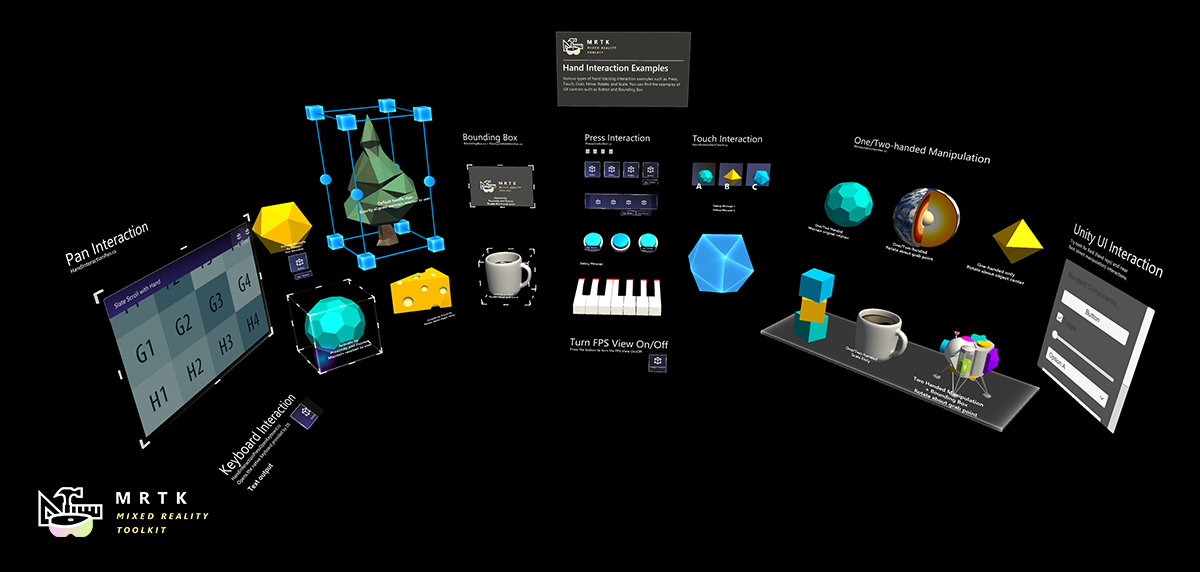
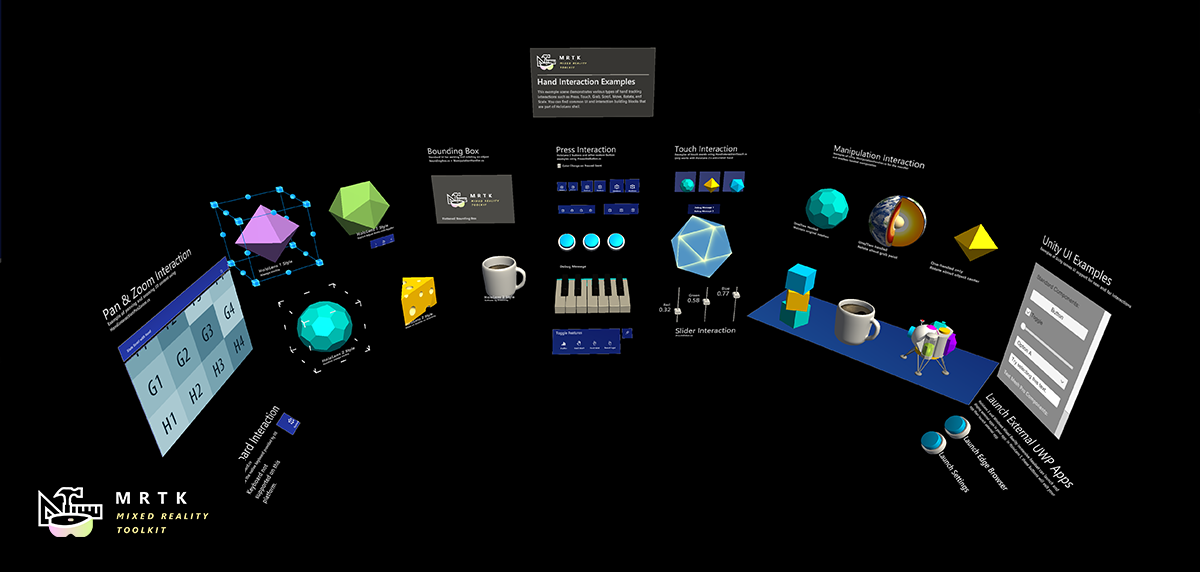
Landing page updates.

diff --git a/README.md b/README.md
@@ -15,8 +15,8 @@ MRTK-Unity is a Microsoft driven project that provides a set of components and f
 
 # Getting Started with MRTK
 
-| [![Getting Started and Documentation](Documentation/Images/MRTK_Icon_GettingStarted.png)](https://microsoft.github.io/MixedRealityToolkit-Unity/Documentation/GettingStartedWithTheMRTK.html)<br/>[Getting Started Guide and Documentation](https://microsoft.github.io/MixedRealityToolkit-Unity/Documentation/GettingStartedWithTheMRTK.html)| [![Getting Started and Documentation](Documentation/Images/MRTK_Icon_Documentation.png)](https://microsoft.github.io/MixedRealityToolkit-Unity/api/Microsoft.MixedReality.Toolkit.html)<br/>[API Reference](https://microsoft.github.io/MixedRealityToolkit-Unity/api/Microsoft.MixedReality.Toolkit.html)|
-|:---|:---|
+| [![Getting Started and Documentation](Documentation/Images/MRTK_Icon_GettingStarted.png)](https://microsoft.github.io/MixedRealityToolkit-Unity/Documentation/GettingStartedWithTheMRTK.html)<br/>[Getting Started](https://microsoft.github.io/MixedRealityToolkit-Unity/Documentation/GettingStartedWithTheMRTK.html)| [![Getting Started](Documentation/Images/MRTK_Icon_ArchitectureOverview.png)](https://microsoft.github.io/MixedRealityToolkit-Unity/Documentation/Architecture/Overview.html)<br/>[MRTK Overview](https://microsoft.github.io/MixedRealityToolkit-Unity/Documentation/Architecture/Overview.html)| [![Feature Guides](Documentation/Images/MRTK_Icon_FeatureGuides.png)](https://microsoft.github.io/MixedRealityToolkit-Unity/Documentation/README_Button.html)<br/>[Feature Guides](https://microsoft.github.io/MixedRealityToolkit-Unity/Documentation/README_Button.html)| [![API Reference](Documentation/Images/MRTK_Icon_APIReference.png)](https://microsoft.github.io/MixedRealityToolkit-Unity/api/Microsoft.MixedReality.Toolkit.html)<br/>[API Reference](https://microsoft.github.io/MixedRealityToolkit-Unity/api/Microsoft.MixedReality.Toolkit.html)|
+|:---|:---|:---|:---|
 
 # Build Status
 
@@ -46,12 +46,12 @@ MRTK-Unity is a Microsoft driven project that provides a set of components and f
 | 2D style plane which supports scrolling with articulated hand input | Example script of using the system keyboard in Unity  | A script for making objects interactable with visual states and theme support |
 |  [![Solver](Documentation/Images/Solver/MRTK_Solver_Main.png)](Documentation/README_Solver.md) [Solver](Documentation/README_Solver.md) | [![Object Collection](Documentation/Images/ObjectCollection/MRTK_ObjectCollection_Main.jpg)](Documentation/README_ObjectCollection.md) [Object Collection](Documentation/README_ObjectCollection.md) | [![Tooltip](Documentation/Images/Tooltip/MRTK_Tooltip_Main.png)](Documentation/README_Tooltip.md) [Tooltip](Documentation/README_Tooltip.md) |
 | Various object positioning behaviors such as tag-along, body-lock, constant view size and surface magnetism | Script for lay out an array of objects in a three-dimensional shape | Annotation UI with flexible anchor/pivot system which can be used for labeling motion controllers and object |
-|  [![Hand Menu](Documentation/Images/Solver/MRTK_UX_HandMenu.png)](Documentation/README_Solver.md#handconstraint-and-handconstraintpalmup) [Hand Menu](Documentation/README_Solver.md#handconstraint-and-handconstraintpalmup) | [![Spatial Awareness](Documentation/Images/SpatialAwareness/MRTK_SpatialAwareness_Main.png)](Documentation/SpatialAwareness/SpatialAwarenessGettingStarted.md) [Spatial Awareness](Documentation/SpatialAwareness/SpatialAwarenessGettingStarted.md) | [![Speech Command / Voice Dictation](Documentation/Images/Fingertip/.png)](Documentation/README_FingertipVisualization.md) [Speech Command / Voice Dictation](Documentation/README_FingertipVisualization.md) |
-| Hand-locked UI for quick access, using Hand Constraint Solver | Make your holographic objects interact with the physical environments | Visual affordance on the fingertip which improves the confidence for the direct interaction |
+|  [![Slider](Documentation/Images/Slider/MRTK_UX_Slider_Main.jpg)](Documentation/README_Sliders.md) [Slider](Documentation/README_Sliders.md) | [![MRTK Standard Shader](Documentation/Images/MRTKStandardShader/MRTK_StandardShader.jpg)](Documentation/README_MRTKStandardShader.md) [MRTK Standard Shader](Documentation/README_MRTKStandardShader.md) | [![Hand Menu](Documentation/Images/Solver/MRTK_UX_HandMenu.png)](Documentation/README_Solver.md#handconstraint-and-handconstraintpalmup) [Hand Menu](Documentation/README_Solver.md#handconstraint-and-handconstraintpalmup) |
+| Slider UI for adjusting values supporting direct hand tracking interaction | MRTK's Standard shader supports various Fluent design elements with performance | Hand-locked UI for quick access, using Hand Constraint Solver |
 |  [![App Bar](Documentation/Images/AppBar/MRTK_AppBar_Main.png)](Documentation/README_AppBar.md) [App Bar](Documentation/README_AppBar.md) | [![Pointers](Documentation/Images/Pointers/MRTK_Pointer_Main.png)](Documentation/Input/Pointers.md) [Pointers](Documentation/Input/Pointers.md) | [![Fingertip Visualization](Documentation/Images/Fingertip/MRTK_FingertipVisualization_Main.png)](Documentation/README_FingertipVisualization.md) [Fingertip Visualization](Documentation/README_FingertipVisualization.md) |
 | UI for Bounding Box's manual activation | Learn about various types of pointers | Visual affordance on the fingertip which improves the confidence for the direct interaction |
-|  [![Slider](Documentation/Images/Slider/MRTK_UX_Slider_Main.jpg)](Documentation/README_Sliders.md) [Slider](Documentation/README_Sliders.md) | [![MRTK Standard Shader](Documentation/Images/MRTKStandardShader/MRTK_StandardShader.jpg)](Documentation/README_MRTKStandardShader.md) [MRTK Standard Shader](Documentation/README_MRTKStandardShader.md) | [![Hand Joint Chaser](Documentation/Images/HandJointChaser/MRTK_HandJointChaser_Main.jpg)](Documentation/README_HandJointChaser.md) [Hand Joint Chaser](Documentation/README_HandJointChaser.md) |
-| Slider UI for adjusting values supporting direct hand tracking interaction | MRTK's Standard shader supports various Fluent design elements with performance | Demonstrates how to use Solver to attach objects to the hand joints |
+|  [![Hand Joint Chaser](Documentation/Images/HandJointChaser/MRTK_HandJointChaser_Main.jpg)](Documentation/README_HandJointChaser.md) [Hand Joint Chaser](Documentation/README_HandJointChaser.md) | [![Spatial Awareness](Documentation/Images/SpatialAwareness/MRTK_SpatialAwareness_Main.png)](Documentation/SpatialAwareness/SpatialAwarenessGettingStarted.md) [Spatial Awareness](Documentation/SpatialAwareness/SpatialAwarenessGettingStarted.md) | [![Voice Command](Documentation/Images/Input/MRTK_Input_Speech.png)](Documentation/Input/Speech.md) [Voice Command](Documentation/Input/Speech.md) |
+| Demonstrates how to use Solver to attach objects to the hand joints | Make your holographic objects interact with the physical environments | Visual affordance on the fingertip which improves the confidence for the direct interaction |
 |  [![Eye Tracking: Target Selection](Documentation/Images/EyeTracking/mrtk_et_targetselect.png)](Documentation/EyeTracking/EyeTracking_TargetSelection.md) [Eye Tracking: Target Selection](Documentation/EyeTracking/EyeTracking_TargetSelection.md) | [![Eye Tracking: Navigation](Documentation/Images/EyeTracking/mrtk_et_navigation.png)](Documentation/EyeTracking/EyeTracking_Navigation.md) [Eye Tracking: Navigation](Documentation/EyeTracking/EyeTracking_Navigation.md) | [![Eye Tracking: Heat Map](Documentation/Images/EyeTracking/mrtk_et_heatmaps.png)](Documentation/EyeTracking/EyeTracking_ExamplesOverview.md#visualization-of-visual-attention) [Eye Tracking: Heat Map](Documentation/EyeTracking/EyeTracking_ExamplesOverview.md#visualization-of-visual-attention) |
 | Combine eyes, voice and hand input to quickly and effortlessly select holograms across your scene | Learn how to auto scroll text or fluently zoom into focused content based on what you are looking at| Examples for logging, loading and visualizing what users have been looking at in your app |
 
@@ -68,6 +68,14 @@ Explore MRTK's various types of interactions and UI controls in [this example sc
 You can find  other example scenes under [**Assets/MixedRealityToolkit.Examples/Demos**](/Assets/MixedRealityToolkit.Examples/Demos) folder.
 
 [![Example Scene](Documentation/Images/MRTK_Examples.png)](Documentation/README_HandInteractionExamples.md)
+
+# MRTK Examples Hub
+
+With MRTK Examples Hub, you can try various example scenes in MRTK.
+You can find pre-built app packages for HoloLens(x86), HoloLens 2(ARM), and Windows Mixed Reality immersive headsets(x64) under [**Release Assets**](https://github.com/microsoft/MixedRealityToolkit-Unity/releases/tag/v2.0.0) folder.
+
+[![Example Scene](Documentation/Images/MRTK_ExamplesHub.png)](Documentation/README_HandInteractionExamples.md)
+
 
 # Sample App
 
